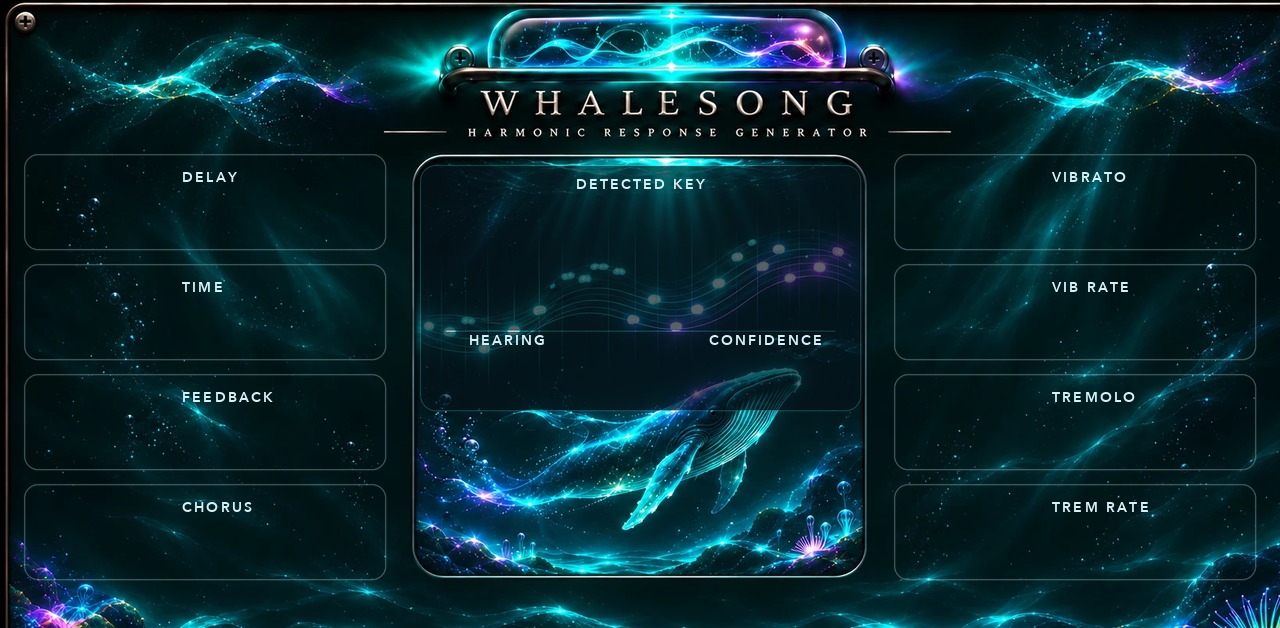
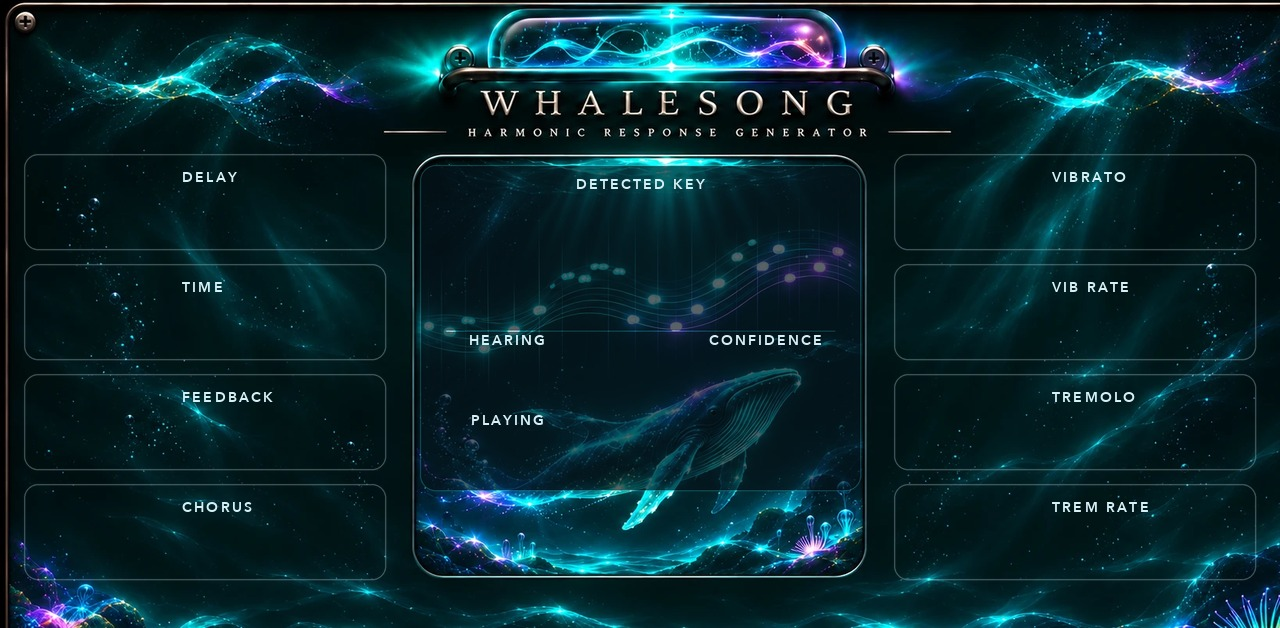
Whalesong: Linger runs shortest to Forever, and a PLAYING readout
Linger's choices were Never first, then 1 to 16 bars, so the longest
setting of all sat at the left end next to the shortest and turning the
knob right stopped buying you time at the top. They now run 1, 2, 4, 8,
16 Bars, Forever, in order, with Forever - the old Never, under a name
that says what it does - at the far end. It is still the default, so an
instance nobody has touched keeps playing.

Reordering changes which stored number means what: a project saved with
Linger on Never reloads as 1 Bar. Linger shipped this morning, so the
exposure is a few hours.

PLAYING joins the readout under HEARING, naming the note the synth is
sounding with its octave, in orange so it reads apart from HEARING's
cream. Hearing is what went in and Playing is what came out, which is
the pair that tells a wrong octave from a wrong degree. It follows the
newest voice still running, so it holds through the release tail and
shows a dash when nothing sounds. Appended last; meters are not saved
and not automatable, so nothing that exists moves.

Tested: lingertest now covers all six positions (it had the old order
baked in). Input cut at 6 s gives last notes at 7.91, 9.82, 13.83,
21.86 and 37.71 s for 1 to 16 bars, and Forever is still going at 40 s;
an untouched instance defaults to Forever. The PLAYING meter agreed
with the voices on all 10,335 blocks of a run with 5,313 sounding and
5,022 silent. Ten suites pass, host_sim 20/1 warning/0 fail, validate
0 errors 0 warnings.

Changed region(s): [[0.3125, 0.6354, 0.6875, 0.7866]]

diff --git a/Whalesong/src/Whalesong.cpp b/Whalesong/src/Whalesong.cpp
@@ -120,9 +120,12 @@ enum ParamIndex
     kVary,         // how much each repeat differs from the last
     kRenew,        // how many repeats before it writes a fresh phrase
 
-    // Winding down, appended. Never is the default, so a free-running instance - and every
+    // Winding down, appended. Forever is the default, so a free-running instance - and every
     // project saved before this existed - behaves exactly as it did.
     kLinger,       // how long it keeps playing after the input goes quiet
+
+    // Appended last, after everything above had already shipped.
+    kPlaying,      // meter: the note its own synth is sounding right now
     kNumParams
 };
 
@@ -212,6 +215,11 @@ struct PhraseNote
 
 // Voices.
 constexpr int kMaxVoices = 6;
+
+// The span the Playing meter names, which is the span startNote() clamps its notes to: A0 to
+// C8. Naming every semitone in it costs 88 strings and one film strip, and buys a readout that
+// says "G4" rather than "67".
+constexpr int kPlayLow = 21, kPlayHigh = 108;
 constexpr int kMaxChannels = 2;
 
 // Scales, as semitones from the root. "Off" is not offered here: an accompanist needs a scale.
@@ -430,8 +438,22 @@ public:
         addParam(mpc::choiceParam("renew",  "Renew",  { "Every 2", "Every 4", "Every 8",
                                                         "Never" }, 1));
 
-        addParam(mpc::choiceParam("linger", "Linger", { "Never", "1 Bar", "2 Bars", "4 Bars",
-                                                        "8 Bars", "16 Bars" }, 0));
+        // Shortest first, so turning the knob to the right buys more time all the way along,
+        // and Forever - which is the longest of them - sits at the far end instead of back at
+        // zero. It is still the default: an instance nobody has touched keeps playing, which is
+        // what every project made before Linger existed does.
+        addParam(mpc::choiceParam("linger", "Linger", { "1 Bar", "2 Bars", "4 Bars", "8 Bars",
+                                                        "16 Bars", "Forever" }, 5));
+
+        // "Playing": the note its own synth is sounding this instant, octave and all. Heard
+        // says what went in and this says what came out, and having the two side by side is how
+        // you tell a wrong octave from a wrong degree without having to trust your ear.
+        {
+            std::vector<std::string> playing = { "-" };
+            for (int m = kPlayLow; m <= kPlayHigh; ++m)
+                playing.push_back(std::string(kNoteNames[m % 12]) + std::to_string(m / 12 - 1));
+            meter(mpc::choiceParam("playing", "Playing", playing, 0));
+        }
 
         addPrograms();
     }
@@ -495,7 +517,7 @@ public:
         outSm_.snap(dbToGain(get(kOutput)));
         mixSm_.snap(get(kMix) * 0.01f);
         lastLevelSent_ = lastConfSent_ = -1.0f;
-        lastHeardSent_ = lastFoundSent_ = lastScaleSent_ = -1.0f;
+        lastHeardSent_ = lastFoundSent_ = lastScaleSent_ = lastPlayingSent_ = -1.0f;
     }
 
     void process(mpc::ProcessContext& ctx) override
@@ -598,12 +620,13 @@ public:
         const float sens = clamp(get(kSens) * 0.01f, 0.0f, 1.0f);
         const float onThresh = dbToGain(-44.0f - 10.0f * sens);
 
-        // How long it keeps playing once the input has gone quiet. Never means it does not stop
-        // on its own, which is what you want when it is jamming alongside another instrument,
-        // and is the default so nothing that already exists changes behaviour.
+        // How long it keeps playing once the input has gone quiet. The choices run 1, 2, 4, 8
+        // and 16 bars and then Forever, which is the last one and means it does not stop on its
+        // own - what you want when it is jamming alongside another instrument, and the default
+        // so nothing that already exists changes behaviour.
         const int lingerSel = clamp(getInt(kLinger), 0, 5);
-        const int64_t lingerSamples = lingerSel == 0 ? 0
-                                    : (int64_t)(barSamples * (float)(1 << (lingerSel - 1)));
+        const int64_t lingerSamples = lingerSel >= 5 ? 0
+                                    : (int64_t)(barSamples * (float)(1 << lingerSel));
 
         // ---- the audio loop ------------------------------------------------------------
         for (int i = 0; i < n; ++i)
@@ -1388,6 +1411,23 @@ private:
             notifyHostParameterChanged(kHeard);
         }
 
+        // The note sounding right now: the newest voice still running. It holds through the
+        // release tail, which is what you want - the readout should say what you can still
+        // hear. 0 is the dash, meaning nothing is sounding.
+        int newest = -1; int64_t newestAt = INT64_MIN;
+        for (int v = 0; v < kMaxVoices; ++v)
+            if (voices_[v].active && voices_[v].startedAt >= newestAt)
+            { newestAt = voices_[v].startedAt; newest = v; }
+        const float pv = newest < 0 ? 0.0f
+            : (float)(clamp((int)std::lround(voices_[newest].targetMidi), kPlayLow, kPlayHigh)
+                      - kPlayLow + 1);
+        if (pv != lastPlayingSent_)
+        {
+            lastPlayingSent_ = pv;
+            setNormalised(kPlaying, pv / (float)(kPlayHigh - kPlayLow + 1));
+            notifyHostParameterChanged(kPlaying);
+        }
+
         const float fv = (float)(foundRoot_ >= 0 ? foundRoot_ + 1 : 0);
         if (fv != lastFoundSent_)
         {
@@ -1532,7 +1572,7 @@ private:
     Smoother outSm_, mixSm_;
 
     float lastLevelSent_ = -1.0f, lastHeardSent_ = -1.0f, lastFoundSent_ = -1.0f,
-          lastConfSent_ = -1.0f, lastScaleSent_ = -1.0f;
+          lastConfSent_ = -1.0f, lastScaleSent_ = -1.0f, lastPlayingSent_ = -1.0f;
 };
 
 MPC_PLUGIN_ENTRY(Whalesong)

diff --git a/Whalesong/art/make_skin.py b/Whalesong/art/make_skin.py
@@ -53,9 +53,12 @@ P = dict(out=0, mix=1, role=2, activity=3, motion=4, octave=5, sync=6, rate=7, h
          level=24, heard=25, found=26, conf=27, foundscale=28,
          delaymix=29, delaytime=30, delayfb=31, chorus=32,
          vibrato=33, vibrate=34, tremolo=35, tremrate=36,
-         window=37, vary=38, renew=39, linger=40)
+         window=37, vary=38, renew=39, linger=40, playing=41)
 
 NOTES = ["C", "C#", "D", "D#", "E", "F", "F#", "G", "G#", "A", "A#", "B"]
+# Every semitone the synth can sound (A0..C8), named: the Playing meter's frames.
+PLAY_LOW, PLAY_HIGH = 21, 108
+PLAY_NAMES = [NOTES[m % 12] + str(m // 12 - 1) for m in range(PLAY_LOW, PLAY_HIGH + 1)]
 SCALES = ["Major", "Minor", "Dorian", "Mixolyd", "Penta Maj", "Penta Min"]
 RATES = ["1/64", "1/32T", "1/32", "1/16T", "1/16", "1/16D", "1/8T", "1/8", "1/8D", "1/4T",
          "1/4", "1/4D", "1/2T", "1/2", "1/2D", "1 Bar"]
@@ -73,7 +76,8 @@ CHOICES = {2: ["Bass", "Lead", "Counter", "Pad", "Arp", "Echo", "Mirror", "Retro
            30: RATES,
            37: ["Off", "1 Bar", "2 Bars", "4 Bars", "8 Bars"],
            39: ["Every 2", "Every 4", "Every 8", "Never"],
-           40: ["Never", "1 Bar", "2 Bars", "4 Bars", "8 Bars", "16 Bars"]}
+           40: ["1 Bar", "2 Bars", "4 Bars", "8 Bars", "16 Bars", "Forever"],
+           41: ["-"] + PLAY_NAMES}
 
 # Knob geometry. Film strips stay under 11430 px tall (the SDK kit's proven size).
 SMALL = dict(src="knob_small.webp", crop=300, knob=78, arc_r=46, arc_w=4, frame=100, frames=110, ticks=(54, 61))
@@ -346,11 +350,14 @@ TAB_NAMES = ("LISTEN", "PLAY", "TONE", "FX", "PHRASE")
 GRAPH = (0, 0, 0, 0)             # Tidepools' filter plot: Whalesong has none
 
 # The readout, inside the lit panel. A scrim goes behind it so the artwork cannot swallow the type.
-SCRIM = (420, 165, 861, 411)
+SCRIM = (420, 165, 861, 491)
 ROOT_BOX = (420, 201, 441, 84)
 MODE_BOX = (420, 287, 441, 30)
 HEARD_BOX = (432, 361, 150, 34)
 CONF_BOX = (686, 371, 158, 16)
+# PLAYING sits directly under HEARING, the same 80 px step the two rows above it use, so the
+# left column reads down: what you played, then what it answered with.
+PLAY_BOX = (432, 441, 150, 34)
 
 
 def box(col, row, span=1):
@@ -403,11 +410,14 @@ def readout_statics():
     return dict(
         headings=[("DETECTED KEY", (640, 185)),
                   ("HEARING", (507, 341)),
-                  ("CONFIDENCE", (765, 341))],
+                  ("CONFIDENCE", (765, 341)),
+                  ("PLAYING", (507, 421))],
         images=[dict(file="found_root.png", frames=13, param=P["found"], box=ROOT_BOX),
                 dict(file="found_mode.png", frames=7, param=P["foundscale"], box=MODE_BOX),
                 dict(file="heard.png", frames=13, param=P["heard"], box=HEARD_BOX),
-                dict(file="conf_bar.png", frames=CONF_FRAMES, param=P["conf"], box=CONF_BOX)])
+                dict(file="conf_bar.png", frames=CONF_FRAMES, param=P["conf"], box=CONF_BOX),
+                dict(file="playing.png", frames=1 + len(PLAY_NAMES), param=P["playing"],
+                     box=PLAY_BOX)])
 
 
 def page(name, left, right):
@@ -673,6 +683,9 @@ def build():
     save("heard.png", text_strip(["\u2014"] + NOTES, HEARD_BOX[2], HEARD_BOX[3], 26,
                                  CREAM + (235,), spacing=3.0))
     save("conf_bar.png", bar_strip(CONF_BOX[2], CONF_BOX[3]))
+    # 89 frames at 34 px is 3026 px tall, well under the 11430 px the kit is proven at.
+    save("playing.png", text_strip(["\u2014"] + PLAY_NAMES, PLAY_BOX[2], PLAY_BOX[3], 26,
+                                   ORANGE + (235,), spacing=3.0))
 
     defs = [("knob overlay", G.overlay_component("KnobOverlay", G.knob_overlay_data(False), "ff111111")),
             ("knob overlay bipolar", G.overlay_component("KnobOverlay", G.knob_overlay_data(True), "ff111111")),
@@ -796,7 +809,8 @@ DEFAULTS = {0: (2 / 3, "0.0 dB"), 1: (0.60, "60 %"), 2: (1, None), 3: (0.45, "45
             24: (0.0, None), 25: (0, None), 26: (0, None), 27: (0.0, None), 28: (0, None),
             29: (0.0, "0 %"), 30: (7, None), 31: (0.389, "35 %"), 32: (0.0, "0 %"),
             33: (0.0, "0 ct"), 34: (0.817, "5.0 Hz"), 35: (0.0, "0 %"), 36: (0.727, "4.0 Hz"),
-            37: (0, None), 38: (0.25, "25 %"), 39: (1, None), 40: (0, None)}
+            37: (0, None), 38: (0.25, "25 %"), 39: (1, None), 40: (1.0, "Forever"),
+            41: (0, None)}
 
 
 def make_previews(previews, images):

diff --git a/Whalesong/README.md b/Whalesong/README.md
@@ -32,6 +32,9 @@ on all three tabs, because it is the point of the plugin:
 - **DETECTED KEY** — the root, large, with the mode under it. A dash until it has decided.
 - **HEARING** — the pitch class the detector is hearing right now.
 - **CONFIDENCE** — how sure it is, as a bar.
+- **PLAYING** — the note Whalesong's own synth is sounding, with its octave, in orange.
+  Hearing is what went in and Playing is what came out, so the pair tells a wrong octave
+  apart from a wrong degree at a glance. A dash means nothing is sounding.
 
 Watch those while you play. If Confidence never climbs, the input is not giving the detector
 enough to work with: try a more melodic part, or raise Sens.
@@ -43,7 +46,7 @@ enough to work with: try a more melodic part, or raise Sens.
 | **Listen** | `Off` uses the Key and Scale buttons and ignores the input. `Follow` keeps re-reading the key as you play. `Lock` follows until it is sure, then stops changing its mind. |
 | **Sens** | How quiet the input can be and still count as playing. Turn it up for quiet or soft-attack material. |
 | **Wait** | How long it listens before it is allowed to play. Two bars is the default, and there is a reason: after one bar it is often confidently wrong. |
-| **Linger** | How long it keeps playing after you stop. `Never` means it does not stop on its own, which is what you want when it is running alongside something else; `1`–`16 Bars` wind it down that long after your last note, and the next note you play brings it back. |
+| **Linger** | How long it keeps playing after you stop. `1`–`16 Bars` wind it down that long after your last note, and the next note you play brings it back. `Forever`, at the far right, means it does not stop on its own — what you want when it is running alongside something else. It is the default. |
 | **Key** / **Scale** | The key to use when Listen is Off. Ignored while it is following. |
 | **Level** | How loud the whalesong is. **Your own signal is not touched by this** — it passes at full level whatever Level says. This is the control to reach for when it is too loud. |
 | **Output** | Master trim on everything, your dry signal included. Reach for Level first. |
@@ -141,8 +144,10 @@ Measured, not guessed. The test harness feeds it generated melodies in known key
   Retro `64 67 64 62 60`. Echo's spacing is within 10 ms of yours; a reply on Beat or Bar lands
   on the grid to the millisecond; a single note and silence both draw nothing.
 - **Linger** stops it within a note of the bar it promises: input cut at 6 s, last note at 7.91,
-  9.82, 13.83 and 21.86 s for 1, 2, 4 and 8 bars. It comes back when the input returns (0 notes
-  during the silence, 50 after), and `Never` is still going at 40 s.
+  9.82, 13.83, 21.86 and 37.71 s for 1, 2, 4, 8 and 16 bars. It comes back when the input
+  returns (0 notes during the silence, 50 after), and `Forever` is still going at 40 s.
+- **The PLAYING meter** agreed with the voices on every one of 10,335 blocks, over a run with
+  5,313 blocks sounding and 5,022 silent, so both the note names and the dash are covered.
 - **The note segmenter** (groundwork, plays nothing yet) recovers quarters, eighths and
   sixteenths at 120 bpm from rendered audio through the real detector: 8 of 8 notes, right
   pitches, onsets within about 20 ms. Also repeated notes at one pitch, notes with vibrato, and
